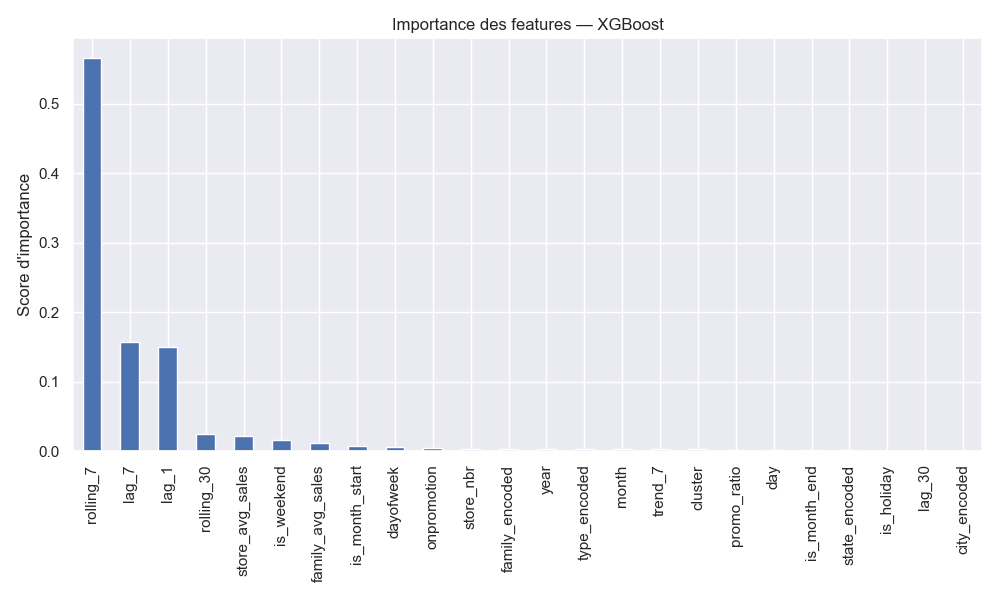
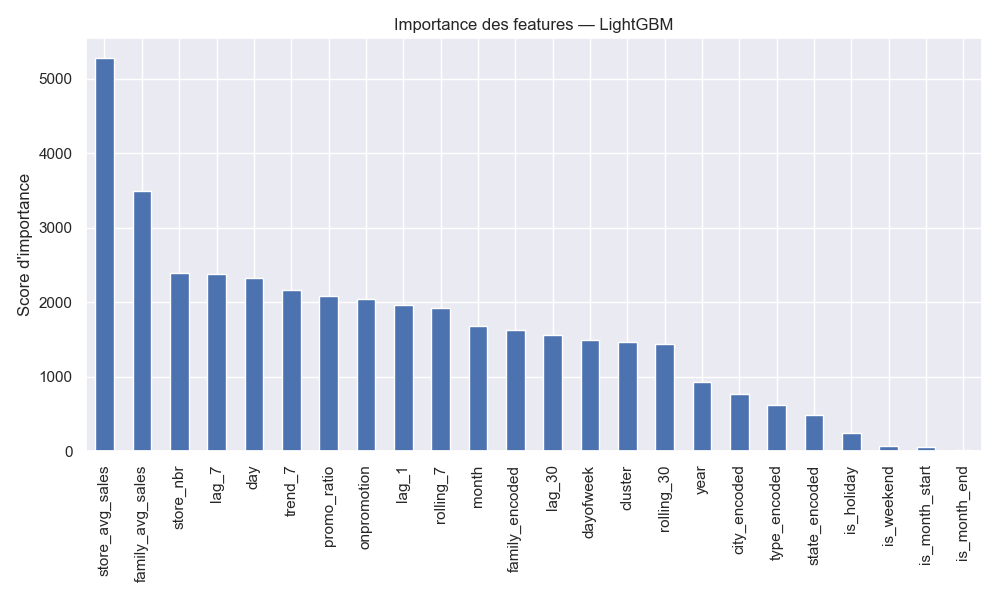
feat: hyperparameter tuning LightGBM avec Optuna

diff --git a/src/model.py b/src/model.py
@@ -1,11 +1,8 @@
 import pandas as pd
 import numpy as np
 import matplotlib.pyplot as plt
-from sklearn.ensemble import RandomForestRegressor
-from xgboost import XGBRegressor
 from sklearn.metrics import mean_absolute_error, mean_squared_error
 import os
-
 FEATURES = ["year", "month", "day", "dayofweek",
             "store_nbr", "family_encoded", "is_holiday",
             "city_encoded", "state_encoded", "type_encoded",
@@ -22,30 +19,37 @@ def split_train_test(df, test_year=2017):
     print(f"Train : {len(train)} lignes | Test : {len(test)} lignes")
     return train, test
 
-def train_model(train):
+def train_model(train, params=None):
+    """
+    Entraîne LightGBM avec les paramètres donnés.
+    Si params=None, utilise les paramètres par défaut.
+    """
+    from lightgbm import LGBMRegressor
 
-    # On échantillonne 55% pour ne pas saturer la RAM
     train_sample = train.sample(frac=0.55, random_state=42)
     print(f"Échantillon d'entraînement : {len(train_sample)} lignes")
 
     X_train = train_sample[FEATURES]
     y_train = train_sample[TARGET]
 
-    model = XGBRegressor(
-    n_estimators=300,       # réduit de 500 à 300
-    learning_rate=0.1,      # augmenté de 0.05 à 0.1
-    max_depth=8,            # augmenté de 6 à 8
-    subsample=0.8,
-    colsample_bytree=0.8,
-    random_state=42,
-    min_child_weight=5,     #  évite le surapprentissage
-    gamma=0.1,
-    n_jobs=-1,
-    verbosity=0
-)
+    if params is None:
+        params = {
+            "n_estimators": 300,
+            "learning_rate": 0.1,
+            "max_depth": 8,
+            "random_state": 42,
+            "n_jobs": -1,
+            "verbose": -1
+        }
 
+    # On ajoute les paramètres fixes
+    params["random_state"] = 42
+    params["n_jobs"]       = -1
+    params["verbose"]      = -1
+
+    model = LGBMRegressor(**params)
     model.fit(X_train, y_train)
-    print("Modèle XGBoost entraîné !")
+    print("Modèle LightGBM entraîné !")
     return model
 
 
@@ -99,7 +103,7 @@ def plot_feature_importance(model, output_dir="outputs"):
 
     plt.figure(figsize=(10, 6))
     importance.plot(kind="bar")
-    plt.title("Importance des features — XGBoost")
+    plt.title("Importance des features — LightGBM")
     plt.ylabel("Score d'importance")
     plt.tight_layout()
     plt.savefig(f"{output_dir}/feature_importance.png")
@@ -107,9 +111,9 @@ def plot_feature_importance(model, output_dir="outputs"):
     print("Graphique sauvegardé : feature_importance.png")
 
 
-def run_model(df):
+def run_model(df, params=None):
     train, test         = split_train_test(df)
-    model               = train_model(train)
+    model               = train_model(train, params)
     predictions, y_test = evaluate_model(model, test)
     plot_predictions(test, predictions)
     plot_feature_importance(model)

diff --git a/src/tuning.py b/src/tuning.py
@@ -1,0 +1,80 @@
+import numpy as np
+import optuna
+import warnings
+from lightgbm import LGBMRegressor
+from sklearn.metrics import mean_absolute_error
+from sklearn.model_selection import cross_val_score
+
+warnings.filterwarnings("ignore")
+optuna.logging.set_verbosity(optuna.logging.WARNING)
+
+FEATURES = ["year", "month", "day", "dayofweek",
+            "store_nbr", "family_encoded", "is_holiday",
+            "city_encoded", "state_encoded", "type_encoded",
+            "cluster", "onpromotion",
+            "lag_1", "lag_7", "lag_30", "rolling_7", "rolling_30",
+            "family_avg_sales", "store_avg_sales", "trend_7",
+            "promo_ratio", "is_month_start", "is_month_end", "is_weekend"]
+
+TARGET = "sales"
+
+
+def objective(trial, X_train, y_train):
+    """
+    Fonction objectif qu'Optuna va minimiser.
+    À chaque trial, Optuna propose des paramètres différents
+    et on retourne le MAE — Optuna cherche à le minimiser.
+    """
+    params = {
+        "n_estimators":    trial.suggest_int("n_estimators", 100, 500),
+        "learning_rate":   trial.suggest_float("learning_rate", 0.01, 0.3),
+        "max_depth":       trial.suggest_int("max_depth", 4, 12),
+        "num_leaves":      trial.suggest_int("num_leaves", 20, 150),
+        "subsample":       trial.suggest_float("subsample", 0.5, 1.0),
+        "colsample_bytree":trial.suggest_float("colsample_bytree", 0.5, 1.0),
+        "min_child_samples":trial.suggest_int("min_child_samples", 5, 50),
+        "random_state": 42,
+        "n_jobs": -1,
+        "verbose": -1
+    }
+
+    model = LGBMRegressor(**params)
+
+    # Cross-validation sur 3 folds — plus fiable qu'un simple train/test
+    scores = cross_val_score(
+        model, X_train, y_train,
+        cv=3,
+        scoring="neg_mean_absolute_error",
+        n_jobs=-1
+    )
+
+    return -scores.mean()  # On retourne le MAE positif
+
+
+def run_tuning(df, n_trials=20):
+    """
+    Lance la recherche des meilleurs paramètres.
+    n_trials = nombre d'essais — plus c'est grand, meilleur le résultat
+    mais plus c'est long. 20 est un bon compromis.
+    """
+    train = df[df["year"] < 2017]
+    train_sample = train.sample(frac=0.3, random_state=42)
+
+    X_train = train_sample[FEATURES]
+    y_train = train_sample[TARGET]
+
+    print(f"Tuning LightGBM sur {len(train_sample)} lignes ({n_trials} trials)...")
+
+    study = optuna.create_study(direction="minimize")
+    study.optimize(
+        lambda trial: objective(trial, X_train, y_train),
+        n_trials=n_trials,
+        show_progress_bar=True
+    )
+
+    print(f"\n✅ Meilleur MAE trouvé : {study.best_value:.2f}")
+    print(f"Meilleurs paramètres :")
+    for key, val in study.best_params.items():
+        print(f"  {key}: {val}")
+
+    return study.best_params

diff --git a/main.py b/main.py
@@ -1,9 +1,9 @@
-"""
+
 from src.preprocessing import run_preprocessing
 from src.eda import run_eda
+from src.tuning import run_tuning
 from src.model import run_model
 
-# Chemin vers le dataset
 DATA_PATH = "data/train.csv"
 
 def main():
@@ -11,46 +11,14 @@ def main():
     print("   SUPPLY CHAIN DEMAND FORECASTING")
     print("=" * 50)
 
-    # Etape 1 : Chargement et nettoyage des données
     print("\n[1/3] Preprocessing...")
     df = run_preprocessing(DATA_PATH)
 
-    # Etape 2 : Exploration et visualisation
-    print("\n[2/3] Analyse exploratoire...")
-    run_eda(df)
+    print("\n[2/3] Hyperparameter tuning LightGBM...")
+    best_params = run_tuning(df, n_trials=20)
 
-    # Etape 3 : Modélisation et prédiction
-    print("\n[3/3] Modélisation...")
-    model = run_model(df)
-
-    print("\n✅ Pipeline terminé ! Résultats dans outputs/")
-
-if __name__ == "__main__":
-    main()
-"""
-from src.preprocessing import run_preprocessing
-from src.eda import run_eda
-from src.model import run_model
-from src.compare_models import compare_models
-
-DATA_PATH = "data/train.csv"
-
-def main():
-    print("=" * 50)
-    print("   SUPPLY CHAIN DEMAND FORECASTING")
-    print("=" * 50)
-
-    print("\n[1/4] Preprocessing...")
-    df = run_preprocessing(DATA_PATH)
-
-    print("\n[2/4] Analyse exploratoire...")
-    run_eda(df)
-
-    print("\n[3/4] Modélisation XGBoost...")
-    model = run_model(df)
-
-    print("\n[4/4] Comparaison des modèles...")
-    compare_models(df)
+    print("\n[3/3] Modélisation LightGBM avec meilleurs paramètres...")
+    run_model(df, best_params)
 
     print("\n✅ Pipeline terminé ! Résultats dans outputs/")
 

diff --git a/src/preprocessing.py b/src/preprocessing.py
@@ -3,8 +3,6 @@ import numpy as np
 from sklearn.preprocessing import LabelEncoder
 
 
-
-
 def load_data(filepath):
     """
     Charge le dataset CSV depuis le chemin donné et Retourne un DataFrame pandas.
